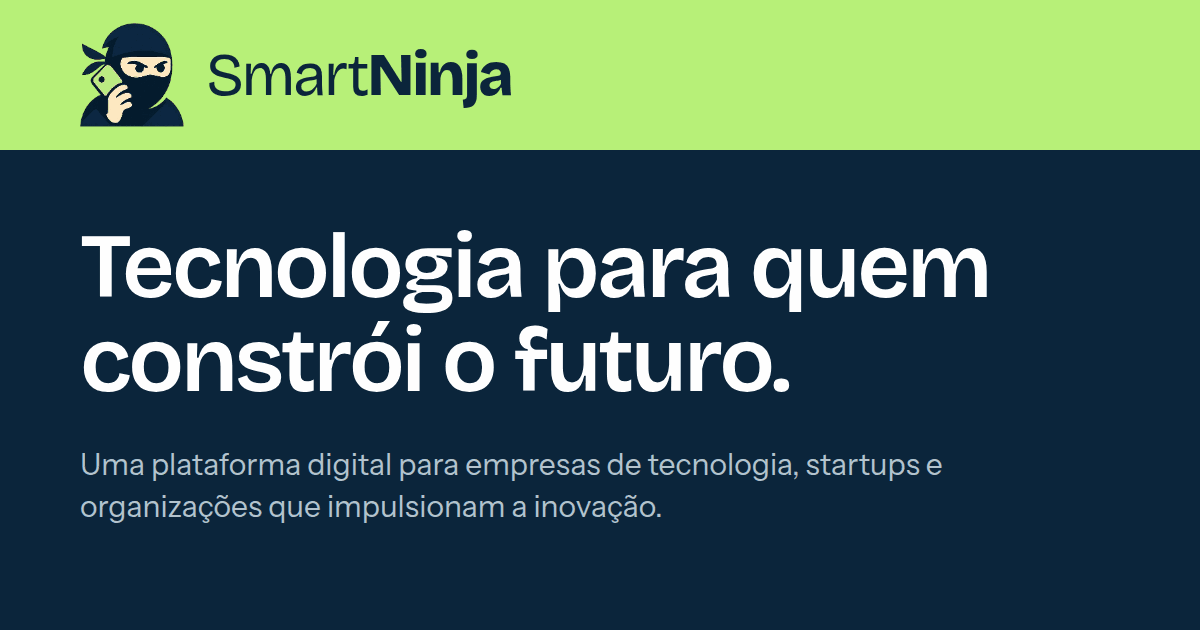
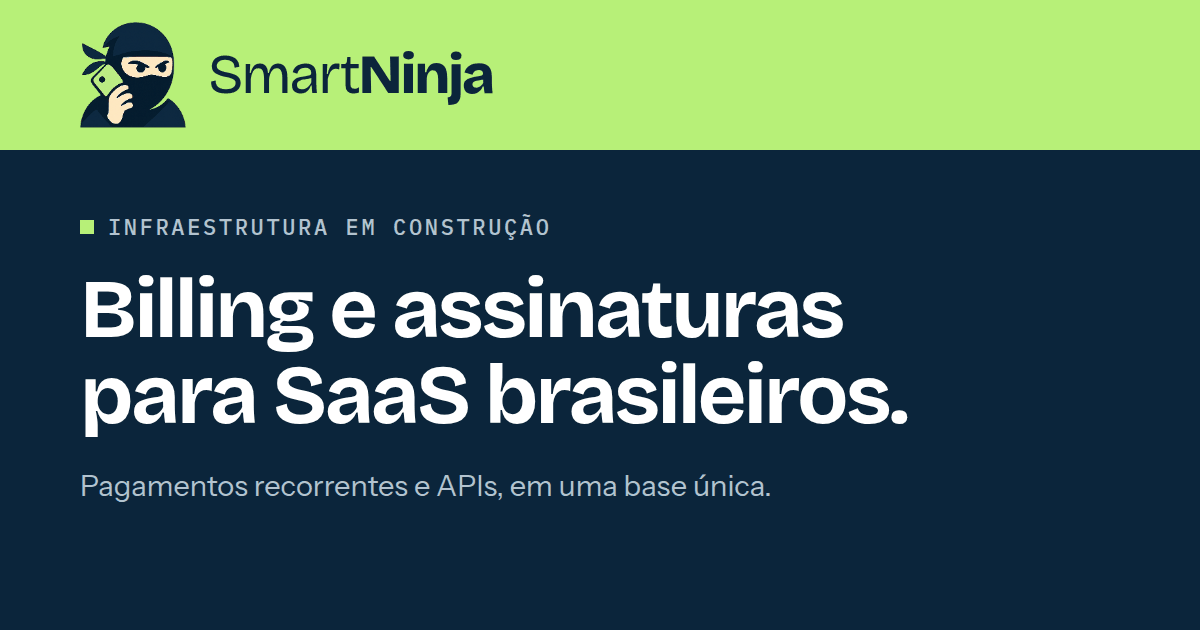
feat(seo): improve SmartNinja metadata and structured data

Changed region(s): [[0.0617, 0.3317, 0.8325, 0.6937], [0.0617, 0.7238, 0.8017, 0.8444], [0.0617, 0.0603, 0.4317, 0.2111]]

diff --git a/src/config/site.ts b/src/config/site.ts
@@ -7,11 +7,11 @@ const contactEmail = (import.meta.env.PUBLIC_CONTACT_EMAIL || 'contato@smartninj
 export const site = {
   name: 'SmartNinja',
   tagline: 'Tecnologia para quem constrói o futuro.',
-  title: 'SmartNinja — Tecnologia para quem constrói o futuro',
+  title: 'SmartNinja — Billing e assinaturas para SaaS',
   description:
-    'A SmartNinja está construindo uma plataforma digital para empresas de tecnologia, startups, polos de inovação e aceleradoras: organizações que constroem e impulsionam negócios de tecnologia.',
+    'Estamos construindo uma infraestrutura de billing para SaaS brasileiros, com assinaturas, pagamentos recorrentes e APIs. Conheça nossa proposta.',
   shortDescription:
-    'Uma plataforma digital para empresas de tecnologia, startups e organizações que impulsionam a inovação.',
+    'Infraestrutura de billing e assinaturas para SaaS brasileiros, em construção.',
   locale: 'pt-BR',
   ogLocale: 'pt_BR',
   themeColor: '#b7f078',
@@ -19,7 +19,13 @@ export const site = {
     path: '/og.png',
     width: 1200,
     height: 630,
-    alt: 'SmartNinja — Tecnologia para quem constrói o futuro.',
+    alt: 'SmartNinja: billing e assinaturas para SaaS brasileiros. Infraestrutura em construção.',
+  },
+  // Ícone quadrado (≥ 48 px) para buscadores; também é o logo do JSON-LD.
+  icon: {
+    path: '/icon-192.png',
+    width: 192,
+    height: 192,
   },
   // Um valor inválido em PUBLIC_CONTACT_EMAIL faz a página não exibir endereço.
   contactEmail: /^[^\s@]+@[^\s@]+\.[^\s@]+$/.test(contactEmail) ? contactEmail : null,

diff --git a/src/content/home.ts b/src/content/home.ts
@@ -3,7 +3,7 @@
 // visão ou roadmap, nem citar clientes, parceiros, números ou resultados.
 
 export const hero = {
-  eyebrow: 'Plataforma digital para negócios de tecnologia',
+  eyebrow: 'Billing e assinaturas para SaaS brasileiros',
   title: 'Tecnologia para quem constrói o futuro.',
   lead: 'Uma plataforma digital para empresas de tecnologia, startups e organizações que impulsionam a inovação.',
   audiencesLabel: 'Pensada para',

diff --git a/README.md b/README.md
@@ -49,6 +49,7 @@ src/
 public/
   favicon.ico           favicon fornecido pelo proprietário
   apple-touch-icon.png  mascote sobre a base creme (180×180)
+  icon-192.png          mascote sobre a base creme (192×192); ícone para buscadores e logo do JSON-LD
   og.png                imagem Open Graph (1200×630)
 ```
 
@@ -85,4 +86,4 @@ O Vercel detecta projetos Astro automaticamente; não é preciso adaptador nem `
 ## Pendências conhecidas
 
 - O mascote disponível tem 323×323 px. Para telas de alta densidade e usos maiores, substitua `src/assets/smartninja.png` por uma versão em resolução maior ou vetorial.
-- `public/og.png` e `public/apple-touch-icon.png` foram gerados a partir do mascote e precisam ser refeitos se a identidade mudar.
+- `public/og.png`, `public/apple-touch-icon.png` e `public/icon-192.png` foram gerados a partir do mascote e precisam ser refeitos se a identidade mudar.
